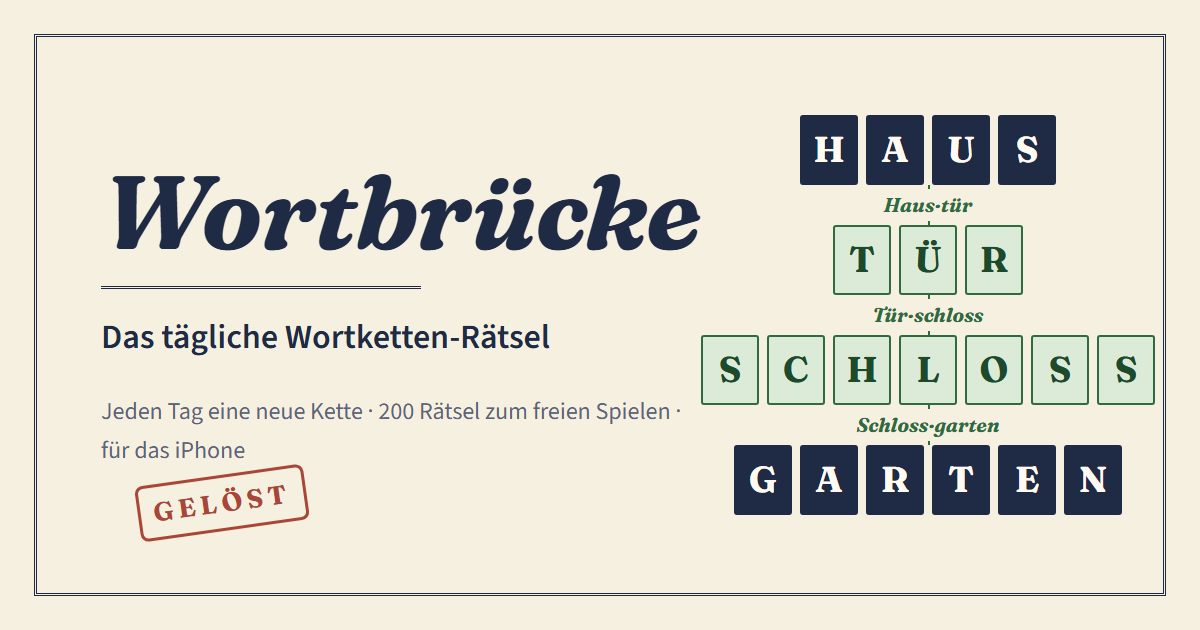
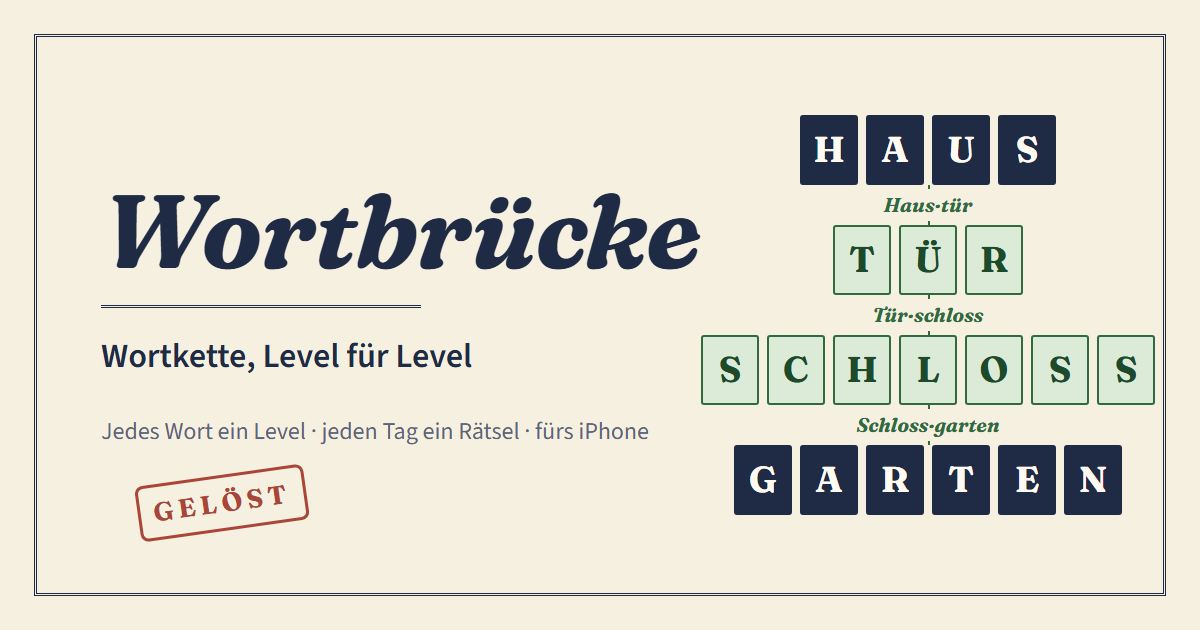
Webseite auf Build 118: Spielen/Kette als Hauptspiel, neue Bilder, Datenschutz Stand 4. November 2026, Support ohne Freies Spiel

Changed region(s): [[0.0925, 0.2714, 0.5858, 0.4524], [0.0617, 0.4524, 0.4625, 0.6032], [0.0617, 0.6333, 0.555, 0.7238]]

diff --git a/index.html b/index.html
@@ -8,8 +8,8 @@
 <meta name="color-scheme" content="light dark">
 <meta name="theme-color" content="#F6F0E1" media="(prefers-color-scheme: light)">
 <meta name="theme-color" content="#191B22" media="(prefers-color-scheme: dark)">
-<title>Wortbrücke – Das tägliche Wortketten-Rätsel für das iPhone</title>
-<meta name="description" content="Jeden Tag eine neue Brücke aus deutschen Wörtern, dazu 200 Rätsel zum freien Spielen. Ruhig, ohne Anmeldung, auch offline. Kostenlos für das iPhone.">
+<title>Wortbrücke – Das Wortketten-Spiel für das iPhone</title>
+<meta name="description" content="Baue deine Kette aus deutschen Wörtern: Jedes Wort ist ein Level. Dazu jeden Tag ein Tagesrätsel. Ruhig, ohne Anmeldung, auch offline. Kostenlos für das iPhone.">
 <link rel="canonical" href="https://wortbruecke.com/">
 
 <!-- Open Graph (Vorschau beim Teilen in Messengern und sozialen Netzen) -->
@@ -17,8 +17,8 @@
 <meta property="og:site_name" content="Wortbrücke">
 <meta property="og:locale" content="de_DE">
 <meta property="og:url" content="https://wortbruecke.com/">
-<meta property="og:title" content="Wortbrücke – Das tägliche Wortketten-Rätsel">
-<meta property="og:description" content="Finde die Wörter, die zwei Nachbarn zu echten zusammengesetzten Wörtern verbinden. Jeden Tag ein neues Rätsel, ohne Anmeldung.">
+<meta property="og:title" content="Wortbrücke – Das Wortketten-Spiel">
+<meta property="og:description" content="Baue deine Kette Wort für Wort: Jedes Wort ist ein Level, falsche Versuche kosten nichts. Dazu jeden Tag ein Tagesrätsel, für alle gleich.">
 <meta property="og:image" content="https://wortbruecke.com/bilder/og-bild.png">
 <meta property="og:image:width" content="1200">
 <meta property="og:image:height" content="630">
@@ -55,9 +55,9 @@
 <!-- ============ HERO ============ -->
 <section class="hero" aria-labelledby="hero-titel">
   <div class="hero-text">
-    <p class="dachzeile">Das tägliche Wortketten-Rätsel</p>
+    <p class="dachzeile">Das Wortketten-Spiel</p>
     <h1 id="hero-titel">Wortbrücke</h1>
-    <p class="lead">Jeden Tag eine neue Brücke aus deutschen Wörtern. Finde die Wörter dazwischen – in fünf ruhigen Minuten, zum Kaffee oder vor dem Schlafen.</p>
+    <p class="lead">Baue deine Kette aus deutschen Wörtern, Level für Level. Falsche Versuche kosten nichts. Dazu jeden Tag ein Tagesrätsel, für alle gleich.</p>
 
     <div class="laden">
       <a class="appstore bald" aria-disabled="true" data-appstore>
@@ -70,7 +70,7 @@
 
   <div class="hero-bild">
     <figure class="telefon" data-bild>
-      <img src="/screenshots/01-start.png" width="660" height="1434" alt="Startbildschirm von Wortbrücke: oben HAUS, unten GARTEN, dazwischen leere Kästchen, darunter die Serie von 15 Tagen und der Knopf „Tagesrätsel spielen“." fetchpriority="high">
+      <img src="/screenshots/01-start.png" width="660" height="1434" alt="Startbildschirm von Wortbrücke: oben HAUS, unten GARTEN, dazwischen leere Kästchen, darunter die Serie von 15 Tagen, der Stand Deine Kette: Level 24 und der Knopf Spielen." fetchpriority="high">
       <span class="bild-ersatz" aria-hidden="true">Bild folgt</span>
     </figure>
     <span class="stempel" aria-hidden="true">Gelöst</span>
@@ -81,20 +81,20 @@
 <section class="abschnitt" id="so-gehts" aria-labelledby="so-titel">
   <div class="abschnitt-kopf">
     <p class="dachzeile">So funktioniert’s</p>
-    <h2 id="so-titel">Eine Brücke aus Wörtern</h2>
-    <p>Oben steht das Startwort, unten das Zielwort. Jedes Wort dazwischen bildet mit seinem oberen <em>und</em> seinem unteren Nachbarn ein echtes zusammengesetztes Wort.</p>
+    <h2 id="so-titel">Eine Kette aus Wörtern</h2>
+    <p>Das letzte Wort steht da, gesucht ist das nächste. Beide zusammen ergeben ein echtes zusammengesetztes Wort. Jedes gefundene Wort ist ein Level, und deine Kette wächst immer weiter.</p>
   </div>
 
   <ol class="schritte">
     <li><span class="nr" aria-hidden="true">1</span><h3>Lücke ansehen</h3><p>Die Kästchen zeigen, wie lang das Wort ist. Der erste Buchstabe ist geschenkt.</p></li>
-    <li><span class="nr" aria-hidden="true">2</span><h3>Wort eintippen</h3><p>Auf der Spieltastatur mit Ä, Ö, Ü und ß – dann „Prüfen“. Du hast fünf Fehlversuche.</p></li>
-    <li><span class="nr" aria-hidden="true">3</span><h3>Brücke fertig bauen</h3><p>Hängst du fest, deckt ein Tipp einen Buchstaben auf. Drei Tipps hast du pro Rätsel.</p></li>
+    <li><span class="nr" aria-hidden="true">2</span><h3>Wort eintippen</h3><p>Auf der Spieltastatur mit Ä, Ö, Ü und ß – dann „Prüfen“. Falsche Versuche kosten nichts.</p></li>
+    <li><span class="nr" aria-hidden="true">3</span><h3>Level für Level weiter</h3><p>Hängst du fest, deckt ein Tipp einen Buchstaben auf, oder du tauschst das Wort. Alle 20 Level gibt es am Rastplatz Nachschub.</p></li>
   </ol>
 
   <div class="probe" id="probe" aria-labelledby="probe-titel">
     <div class="probe-kopf">
       <h3 id="probe-titel">Probier es aus</h3>
-      <p class="probe-sub">Ein kleines Rätsel mit zwei Lücken</p>
+      <p class="probe-sub">Ein kleines Tagesrätsel: Hier passt jedes Wort zu beiden Nachbarn</p>
     </div>
 
     <form class="kette" id="kette" novalidate autocomplete="off">
@@ -136,7 +136,7 @@
 
     <details class="aufloesung">
       <summary>Lösung anzeigen</summary>
-      <p><strong>HAUS – TÜR – SCHLOSS – GARTEN:</strong> Haus<span class="fuge">·</span>tür, Tür<span class="fuge">·</span>schloss, Schloss<span class="fuge">·</span>garten. In der App ist jede Brücke länger, und am Sonntag wartet die schwere Sonntagsbrücke.</p>
+      <p><strong>HAUS – TÜR – SCHLOSS – GARTEN:</strong> Haus<span class="fuge">·</span>tür, Tür<span class="fuge">·</span>schloss, Schloss<span class="fuge">·</span>garten. In der App hat das Tagesrätsel mehr Lücken, und am Sonntag wartet die schwere Sonntagsbrücke.</p>
     </details>
   </div>
 </section>
@@ -145,14 +145,14 @@
 <section class="abschnitt" id="funktionen" aria-labelledby="funk-titel">
   <div class="abschnitt-kopf">
     <p class="dachzeile">Funktionen</p>
-    <h2 id="funk-titel">Ein Rätsel am Tag – und so viel mehr, wie du magst</h2>
+    <h2 id="funk-titel">Spielen, so lange du magst – und jeden Tag ein Rätsel</h2>
   </div>
 
   <ul class="funktionen">
     <li class="funktion breit">
       <svg viewBox="0 0 24 24" aria-hidden="true" focusable="false"><rect x="3.5" y="5" width="17" height="15.5" rx="2"/><path d="M3.5 10h17M8 3v4M16 3v4"/></svg>
       <h3>Tagesrätsel mit Wochenrhythmus</h3>
-      <p>Jeden Tag ein neues Rätsel, für alle gleich. Die Woche beginnt leicht und steigert sich bis zur schweren Sonntagsbrücke.</p>
+      <p>Die tägliche Challenge: jeden Tag ein neues Rätsel, für alle gleich. Die Woche beginnt leicht und steigert sich bis zur schweren Sonntagsbrücke. Danach geht es mit „Weiterspielen“ in deiner Kette weiter, verpasste Tage holst du im Archiv nach.</p>
       <ol class="woche" aria-label="Schwierigkeit nach Wochentag">
         <li class="l1"><b>Mo</b><span>leicht</span></li>
         <li class="l1"><b>Di</b><span>leicht</span></li>
@@ -165,13 +165,13 @@
     </li>
     <li class="funktion">
       <svg viewBox="0 0 24 24" aria-hidden="true" focusable="false"><rect x="4" y="4" width="7" height="7" rx="1"/><rect x="13" y="4" width="7" height="7" rx="1"/><rect x="4" y="13" width="7" height="7" rx="1"/><rect x="13" y="13" width="7" height="7" rx="1"/></svg>
-      <h3>Freies Spiel: 200 Rätsel</h3>
-      <p>Wenn ein Rätsel am Tag nicht reicht: 200 eigene Rätsel in Leicht, Mittel, Schwer oder gemischt – zufällig und ohne Wiederholung. Dazu das Archiv zum Nachholen.</p>
+      <h3>Deine Kette</h3>
+      <p>Über „Spielen“ wächst deine Kette immer weiter, jedes Wort ist ein Level. Es helfen Tipp, Wort tauschen und Extra-Tipp per Video. Alle 20 Level wartet ein Rastplatz mit Nachschub.</p>
     </li>
     <li class="funktion">
       <svg viewBox="0 0 24 24" aria-hidden="true" focusable="false"><path d="M12 3l7 3v5.5c0 4.5-3 8-7 9.5-4-1.5-7-5-7-9.5V6z"/><path d="M9 12l2 2 4-4"/></svg>
-      <h3>Serie mit Serien-Schild</h3>
-      <p>Zähle die Tage, an denen du die Brücke geschafft hast. Ein verpasster Tag muss nicht das Ende sein: Ein Serien-Schild überbrückt ihn.</p>
+      <h3>Serie und Stempelheft</h3>
+      <p>Zähle die Tage, an denen du das Tagesrätsel geschafft hast. Ein Serien-Schild überbrückt einen verpassten Tag. Für deine Kette sammelst du 10 Stempel.</p>
     </li>
     <li class="funktion">
       <svg viewBox="0 0 24 24" aria-hidden="true" focusable="false"><path d="M6 16V11a6 6 0 0 1 12 0v5l1.5 2h-15z"/><path d="M10 20.5a2 2 0 0 0 4 0"/></svg>
@@ -180,8 +180,8 @@
     </li>
     <li class="funktion">
       <svg viewBox="0 0 24 24" aria-hidden="true" focusable="false"><path d="M12 15V3M7.5 7.5L12 3l4.5 4.5M5 12v7a2 2 0 0 0 2 2h10a2 2 0 0 0 2-2v-7"/></svg>
-      <h3>Ergebnis als Bild teilen</h3>
-      <p>Eine kleine Karte im Papier-Stil für die Familiengruppe oder den Büro-Chat – sie zeigt deinen Weg, aber nie die Lösung.</p>
+      <h3>Ergebnis und Fortschritt teilen</h3>
+      <p>Eine kleine Karte im Papier-Stil für die Familiengruppe oder den Büro-Chat – sie zeigt deinen Weg, aber nie die Lösung. Am Rastplatz teilst du dein Level.</p>
     </li>
     <li class="funktion">
       <svg viewBox="0 0 24 24" aria-hidden="true" focusable="false"><circle cx="12" cy="12" r="8.5"/><path d="M6 6l12 12"/></svg>
@@ -192,8 +192,8 @@
 
   <div class="vertrauen">
     <p><strong>Ohne Anmeldung.</strong> Spielstand, Serie und Statistik bleiben auf deinem iPhone.</p>
-    <p><strong>Faire Werbung.</strong> Keine Banner, nie während eines Rätsels, in den ersten Tagen gar keine.</p>
-    <p><strong>Auch offline.</strong> Die Rätsel stecken in der App. Hell oder dunkel, wie dein iPhone.</p>
+    <p><strong>Faire Werbung.</strong> Keine Banner, nie mitten in einem Wort oder Rätsel, in den ersten Tagen gar keine.</p>
+    <p><strong>Auch offline.</strong> Kette und Rätsel stecken in der App. Hell oder dunkel, wie dein iPhone.</p>
   </div>
 </section>
 
@@ -205,17 +205,17 @@
   </div>
   <div class="galerie">
     <figure class="telefon klein" data-bild>
-      <img src="/screenshots/01-start.png" width="660" height="1434" loading="lazy" alt="Startbildschirm mit dem heutigen Rätsel, der Serie und den Knöpfen Freies Spiel, Archiv und Statistik.">
+      <img src="/screenshots/01-start.png" width="660" height="1434" loading="lazy" alt="Startbildschirm mit der Serie, dem Stand der Kette und den Knöpfen Spielen, Tagesrätsel, Archiv und Statistik.">
       <span class="bild-ersatz" aria-hidden="true">Bild folgt</span>
-      <figcaption>Jeden Tag ein neues Rätsel</figcaption>
+      <figcaption>Deine Kette und das Tagesrätsel</figcaption>
     </figure>
     <figure class="telefon klein" data-bild>
-      <img src="/screenshots/02-spiel.png" width="660" height="1434" loading="lazy" alt="Spielbildschirm: Die Kette OBST, BAUM, eine Lücke mit STA, eine Lücke mit G und das Ziel HAUS; unten Tipp, Prüfen und die Spieltastatur mit Umlauten.">
+      <img src="/screenshots/02-spiel.png" width="660" height="1434" loading="lazy" alt="Tagesrätsel im Spiel: KIND, SPIEL, eine Lücke mit FEL, zwei weitere Lücken und das Ziel LAUS; unten Tipp, Prüfen und die Spieltastatur mit Umlauten.">
       <span class="bild-ersatz" aria-hidden="true">Bild folgt</span>
       <figcaption>Wort für Wort zum Ziel</figcaption>
     </figure>
     <figure class="telefon klein" data-bild>
-      <img src="/screenshots/03-ergebnis.png" width="660" height="1434" loading="lazy" alt="Ergebnis mit dem Stempel „Gelöst“, der Übersicht der gefundenen Wörter und einer Teilen-Karte ohne Lösung.">
+      <img src="/screenshots/03-ergebnis.png" width="660" height="1434" loading="lazy" alt="Ergebnis des Tagesrätsels mit dem Stempel „Gelöst“, der Übersicht der gefundenen Wörter, einer Teilen-Karte ohne Lösung und dem Knopf Weiterspielen.">
       <span class="bild-ersatz" aria-hidden="true">Bild folgt</span>
       <figcaption>Teilen, ohne zu verraten</figcaption>
     </figure>
@@ -235,7 +235,7 @@
     </details>
     <details>
       <summary>Brauche ich ein Konto oder Internet?</summary>
-      <p>Nein. Es gibt keine Anmeldung, und die Rätsel stecken in der App. Spielstand, Serie und Statistik bleiben auf deinem iPhone.</p>
+      <p>Nein. Es gibt keine Anmeldung, und Kette und Rätsel stecken in der App. Spielstand, Serie und Statistik bleiben auf deinem iPhone.</p>
     </details>
     <details>
       <summary>Wann gibt es ein neues Tagesrätsel?</summary>
@@ -247,11 +247,11 @@
     </details>
     <details>
       <summary>Wie viel Werbung gibt es?</summary>
-      <p>Wenig: keine Banner und nie Werbung während eines Rätsels. In den ersten Tagen gibt es gar keine. Danach höchstens einmal am Tag nach dem Tagesrätsel eine Vollbild-Werbung, im Archiv und im Freien Spiel höchstens nach jedem dritten gelösten Rätsel. Videos für einen Extra-Tipp schaust du nur, wenn du möchtest.</p>
+      <p>Wenig: keine Banner und nie Werbung mitten in einem Wort oder Rätsel. In den ersten Tagen gibt es gar keine. Danach höchstens einmal am Tag nach dem Tagesrätsel eine Vollbild-Werbung, im Archiv höchstens nach jedem dritten gelösten Rätsel und in deiner Kette nur am Rastplatz, also höchstens alle 20 Level. Videos für einen Extra-Tipp schaust du nur, wenn du möchtest.</p>
     </details>
     <details>
       <summary>Ein Wort sollte zählen, wird aber nicht angenommen?</summary>
-      <p>Tippe im Spiel auf „Wort melden“ oder schreib an <a href="mailto:kontakt@wortbruecke.com">kontakt@wortbruecke.com</a>. Wir prüfen jeden Vorschlag.</p>
+      <p>Tippe direkt nach dem abgelehnten Wort auf den Melde-Knopf oder schreib an <a href="mailto:kontakt@wortbruecke.com">kontakt@wortbruecke.com</a>. Wir prüfen jeden Vorschlag.</p>
     </details>
     <details>
       <summary>Gibt es Wortbrücke für Android oder das iPad?</summary>
@@ -262,7 +262,7 @@
 
 <!-- ============ ABSCHLUSS ============ -->
 <section class="schluss" aria-labelledby="schluss-titel">
-  <h2 id="schluss-titel">Die heutige Brücke wartet.</h2>
+  <h2 id="schluss-titel">Deine Kette wartet.</h2>
   <a class="appstore hell bald" aria-disabled="true" data-appstore>
     <svg viewBox="0 0 24 24" aria-hidden="true" focusable="false"><rect x="6" y="2" width="12" height="20" rx="2.5" fill="none" stroke="currentColor" stroke-width="1.8"/><path d="M10.5 18.5h3" stroke="currentColor" stroke-width="1.8" stroke-linecap="round"/></svg>
     <span class="appstore-text"><small data-appstore-klein>Bald im</small><strong data-appstore-gross>App Store</strong></span>

diff --git a/datenschutz.html b/datenschutz.html
@@ -38,7 +38,7 @@
   <a class="zurueck" href="/">&larr; Zur Startseite</a>
 
 <h1>Datenschutzerklärung</h1>
-<p>Stand: 3. November 2026</p>
+<p>Stand: 4. November 2026</p>
 
 <p>Diese Datenschutzerklärung gilt für die iPhone-App „Wortbrücke“ (im Folgenden „App“) und für diese Webseite. Sie erklärt, welche personenbezogenen Daten verarbeitet werden, wozu und welche Rechte Sie haben.</p>
 
@@ -52,7 +52,7 @@
   <li><a href="#werbung">Werbung (Google AdMob)</a></li>
   <li><a href="#kauf">Kauf „Werbefrei“</a></li>
   <li><a href="#erinnerung">Tägliche Erinnerung</a></li>
-  <li><a href="#teilen">Ergebnis teilen</a></li>
+  <li><a href="#teilen">Ergebnis und Fortschritt teilen</a></li>
   <li><a href="#email">„Wort melden“ und E-Mail</a></li>
   <li><a href="#bewertung">Bewertungsabfrage</a></li>
   <li><a href="#webseite">Diese Webseite</a></li>
@@ -86,8 +86,8 @@
 <h2 id="geraet">3. Speicherung auf Ihrem Gerät</h2>
 <p>Die App speichert auf Ihrem iPhone, und nur dort:</p>
 <ul>
-  <li>Spielstand laufender Rätsel (Tagesrätsel, Archiv und Freies Spiel), gelöste und verpasste Rätsel, Serie, Serien-Schilde, Statistik, Kalender und Urkunden,</li>
-  <li>welche Rätsel im Freien Spiel Sie schon gespielt haben (damit sich keines vor Ende einer Runde wiederholt),</li>
+  <li>Spielstand laufender Rätsel (Tagesrätsel und Archiv) und Ihrer Kette (aktuelles Level), gelöste und verpasste Rätsel, Serie, Serien-Schilde, Statistik, Kalender und Urkunden,</li>
+  <li>welche Wörter Sie in Ihrer Kette gefunden und welche Stempel Sie gesammelt haben (für Stempelheft und Statistik und damit sich Wörter nicht zu schnell wiederholen),</li>
   <li>Ihre Einstellungen (z. B. Farbmodus, Papier-Farbe, Vibration, Uhrzeit der Erinnerung),</li>
   <li>ob Sie „Werbefrei“ gekauft haben (zusätzlich fragt die App den Kaufstatus bei Apple ab, siehe Abschnitt 6),</li>
   <li>Zähler für die Werbe-Häufigkeit und den ersten Nutzungstag (damit z. B. in den ersten Tagen keine Werbung erscheint und danach höchstens eine Vollbild-Werbung pro Tag nach dem Tagesrätsel),</li>
@@ -106,7 +106,7 @@
 
 <h3>5.1 Anbieter und Platzierung</h3>
 <p>Die App finanziert sich über Werbung. Dafür nutzen wir <strong>Google AdMob</strong> und die Google-Einwilligungsplattform („User Messaging Platform“, UMP). Anbieter für Nutzer in Europa ist die <strong>Google Ireland Limited, Gordon House, Barrow Street, Dublin 4, Irland</strong> („Google“).</p>
-<p>Werbung erscheint nur an bestimmten Stellen: nie während eines Rätsels, nie beim Start und kein Banner. In den ersten Tagen nach dem ersten Start erscheint keine Werbung. Danach kann beim Verlassen des Ergebnisbildschirms nach dem Tagesrätsel höchstens einmal am Tag eine Vollbild-Werbung erscheinen, im Archiv und im Freien Spiel höchstens nach jedem dritten gelösten Rätsel. Werbevideos (für einen Extra-Tipp, ein zusätzliches Serien-Schild oder einen weiteren Versuch im Archiv) sehen Sie nur, wenn Sie das ausdrücklich auswählen.</p>
+<p>Werbung erscheint nur an bestimmten Stellen: nie während eines Rätsels, nie beim Start und kein Banner. In den ersten Tagen nach dem ersten Start erscheint keine Werbung. Danach kann beim Verlassen des Ergebnisbildschirms nach dem Tagesrätsel höchstens einmal am Tag eine Vollbild-Werbung erscheinen, im Archiv höchstens nach jedem dritten gelösten Rätsel und in Ihrer Kette nur am Rastplatz, höchstens alle 20 Level. Werbevideos (für einen Extra-Tipp, ein zusätzliches Serien-Schild oder einen weiteren Versuch im Archiv) sehen Sie nur, wenn Sie das ausdrücklich auswählen.</p>
 
 <h3>5.2 Welche Daten verarbeitet werden</h3>
 <p>Wenn das Werbemodul aktiv ist, kann das Google Mobile Ads SDK nach Angaben von Google insbesondere folgende Daten erheben und an Google übertragen:</p>
@@ -122,7 +122,7 @@
 <p><strong>Zwecke:</strong> Ausspielen von Werbung, Begrenzung der Häufigkeit, Messung der Werbewirkung, Abrechnung, Betrugs- und Missbrauchserkennung und – nur mit Ihrer Einwilligung – personalisierte Werbung.</p>
 
 <h3>5.3 Einwilligungsdialog (DSGVO)</h3>
-<p>Bevor Werbung geladen wird, zeigt die App den Einwilligungsdialog von Google (zertifiziert nach dem IAB Transparency &amp; Consent Framework). Er erscheint nicht beim allerersten Start, sondern nach dem ersten fertig gespielten Rätsel. Dort können Sie wählen, ob und zu welchen Zwecken Google und seine Werbepartner Informationen auf Ihrem Gerät speichern oder auslesen und Daten für personalisierte Werbung nutzen dürfen. Sie können ablehnen.</p>
+<p>Bevor Werbung geladen wird, zeigt die App den Einwilligungsdialog von Google (zertifiziert nach dem IAB Transparency &amp; Consent Framework). Er erscheint nicht beim allerersten Start, sondern beim ersten Anlass für Werbung: wenn Sie nach dem ersten fertig gespielten Rätsel den Ergebnisbildschirm verlassen (das Einstiegsrätsel zählt nicht), am ersten Rastplatz Ihrer Kette auf „Weiter“ tippen, ein Werbevideo wählen, in Ihrer Kette ohne Tipps und Tausch auf „Anderes Wort“ tippen oder die Datenschutz-Einstellungen öffnen. Ist er dabei nicht erschienen oder haben Sie die App vorher geschlossen, kann er bei einem späteren App-Start erscheinen. Dort können Sie wählen, ob und zu welchen Zwecken Google und seine Werbepartner Informationen auf Ihrem Gerät speichern oder auslesen und Daten für personalisierte Werbung nutzen dürfen. Sie können ablehnen.</p>
 <ul>
   <li><strong>Mit Einwilligung:</strong> personalisierte oder nicht personalisierte Werbung nach Ihrer Auswahl.</li>
   <li><strong>Wenn Sie ablehnen:</strong> Google kann eingeschränkte Werbung („Limited Ads“) ausspielen: ohne Personalisierung und ohne Speichern oder Auslesen von Kennungen auf Ihrem Gerät zu Werbezwecken; die IP-Adresse wird dabei weiterhin zur Auslieferung und Betrugserkennung verwendet.</li>
@@ -165,11 +165,12 @@
 <p>Abschalten: in der App unter „Einstellungen“ oder in iOS unter Einstellungen → Mitteilungen → Wortbrücke.</p>
 <p class="legal"><strong>Rechtsgrundlage:</strong> Ihre Einwilligung (Art. 6 Abs. 1 lit. a DSGVO, § 25 Abs. 1 TDDDG), jederzeit widerrufbar wie beschrieben.</p>
 
-<h2 id="teilen">8. Ergebnis teilen</h2>
+<h2 id="teilen">8. Ergebnis und Fortschritt teilen</h2>
 <p>Wenn Sie „Teilen“ antippen, erzeugt die App auf Ihrem iPhone ein Ergebnisbild und einen kurzen Text (Rätselnummer, Ergebnis als Kästchen, beim Tagesrätsel Ihre Serie – ohne Lösung und ohne Namen). Das Bild wird dafür kurz im Zwischenspeicher der App abgelegt. Dann öffnet sich das Teilen-Menü von iOS. An wen und über welche App Sie teilen, entscheiden Sie; für die weitere Verarbeitung ist der jeweilige Dienst (z. B. Ihr Messenger) verantwortlich. Wir erhalten dabei nichts.</p>
+<p>Wenn Sie am Rastplatz oder in der Statistik „Fortschritt teilen“ antippen, erzeugt die App nur einen kurzen Text (erreichtes Level und Anzahl Ihrer Stempel – ohne Lösung und ohne Namen), kein Bild. Auch dieser Text geht nur über das Teilen-Menü von iOS an die von Ihnen gewählte App; steht das Menü nicht zur Verfügung, kopiert die App den Text in die Zwischenablage. Wir erhalten dabei nichts.</p>
 
 <h2 id="email">9. „Wort melden“ und Kontakt per E-Mail</h2>
-<p>Wenn Sie nach einem abgelehnten Wort „Wort melden“ antippen, öffnet die App Ihre E-Mail-App mit einer vorausgefüllten Nachricht an uns: Rätselnummer, betroffene Lücke, Ihr eingegebenes Wort und die App-Version. Sie sehen die Nachricht vor dem Senden und entscheiden selbst, ob Sie sie abschicken. Die App selbst überträgt nichts.</p>
+<p>Wenn Sie nach einem abgelehnten Wort „Wort melden“ antippen, öffnet die App Ihre E-Mail-App mit einer vorausgefüllten Nachricht an uns: Rätselnummer, betroffene Lücke, Ihr eingegebenes Wort und die App-Version. In Ihrer Kette heißt der Knopf „Das Wort sollte zählen“; die Nachricht enthält dort Ihr Level, das letzte Wort der Kette, Ihr eingegebenes Wort, die App-Version und die Angabe „iPhone“. Sie sehen die Nachricht vor dem Senden und entscheiden selbst, ob Sie sie abschicken. Die App selbst überträgt nichts.</p>
 <p>Wenn Sie uns eine E-Mail schreiben (z. B. Fragen, Wortvorschläge, Fehlermeldungen, Meldung unpassender Werbung), verarbeiten wir Ihre E-Mail-Adresse und den Inhalt Ihrer Nachricht, um Ihre Anfrage zu beantworten und Wortvorschläge zu prüfen. Wir löschen die Nachricht, wenn die Anfrage erledigt ist und keine gesetzlichen Aufbewahrungspflichten entgegenstehen.</p>
 <p class="legal"><strong>Rechtsgrundlage:</strong> Art. 6 Abs. 1 lit. b DSGVO (wenn es um die App oder einen Kauf geht), sonst unser berechtigtes Interesse, Anfragen zu beantworten und die Rätsel zu verbessern (Art. 6 Abs. 1 lit. f DSGVO).</p>
 

diff --git a/support.html b/support.html
@@ -39,36 +39,59 @@
 
 <h1>Hilfe und Kontakt</h1>
 
-<p>Bei Wortbrücke baust du eine Brücke aus deutschen Wörtern: vom Startwort oben bis zum Zielwort unten. Jedes Wort bildet mit seinem oberen und seinem unteren Nachbarn ein zusammengesetztes Wort, zum Beispiel HAUS – TÜR – SCHLOSS (Haustür, Türschloss).</p>
+<p>Bei Wortbrücke baust du über „Spielen“ deine Kette aus deutschen Wörtern: Das letzte Wort steht da, gesucht ist das nächste. Beide zusammen ergeben ein zusammengesetztes Wort, zum Beispiel KELLER – RAUM – FAHRT (Kellerraum, Raumfahrt). Jedes gefundene Wort ist ein Level.</p>
+
+<p>Dazu gibt es jeden Tag ein Tagesrätsel, für alle gleich: Dort baust du eine Brücke vom Startwort zum Zielwort, und jedes Wort passt zu seinem oberen und seinem unteren Nachbarn.</p>
 
 <div class="card">
-  <h2 class="ohne-linie">Kontakt</h2>
+  <h2>Kontakt</h2>
   <p>Fragen, Fehler, Wortvorschläge oder unpassende Werbung? Schreib uns:</p>
   <p><strong>E-Mail:</strong> <a href="mailto:kontakt@wortbruecke.com">kontakt@wortbruecke.com</a></p>
-  <p class="small">Bitte nenne bei Fehlern kurz dein iPhone-Modell und, wenn möglich, die Rätselnummer. Die App-Version steht in der App unter „Einstellungen“.</p>
+  <p class="small">Bitte nenne bei Fehlern kurz dein iPhone-Modell und, wenn möglich, die Rätselnummer oder dein Level. Die App-Version steht in der App unter „Einstellungen“.</p>
 </div>
 
 <h2>Häufige Fragen</h2>
 
 <details>
+  <summary>Wie funktioniert „Spielen“?</summary>
+  <div>
+    <p>Über den Knopf „Spielen“ spielst du deine Kette. Es gibt nur diese eine Kette: Sie bleibt bestehen, und du machst immer dort weiter, wo du aufgehört hast. Dein Fortschritt ist dein aktuelles Level. Falsche Versuche kosten nichts, du kannst so oft probieren, wie du magst.</p>
+  </div>
+</details>
+
+<details>
+  <summary>Ich komme in der Kette nicht weiter. Was kann ich tun?</summary>
+  <div>
+    <p>Ein Tipp deckt einen Buchstaben auf. Mit „Anderes Wort“ tauschst du das gesuchte Wort gegen ein anderes, wo es eines gibt. Sind die Tipps aufgebraucht, kannst du freiwillig ein kurzes Video ansehen und bekommst einen Extra-Tipp (höchstens einen pro Level und fünf bis zum nächsten Rastplatz). Mit „Werbefrei“ gibt es den Extra-Tipp ohne Video.</p>
+  </div>
+</details>
+
+<details>
+  <summary>Was ist der Rastplatz?</summary>
+  <div>
+    <p>Alle 20 Level erreichst du einen Rastplatz. Dort bekommst du einen Tipp und einen Tausch dazu, solange dein Vorrat nicht voll ist (höchstens 5 Tipps und 2 Tausch). Außerdem kannst du deinen Fortschritt teilen.</p>
+  </div>
+</details>
+
+<details>
+  <summary>Was ist das Stempelheft?</summary>
+  <div>
+    <p>Im Stempelheft sammelst du 10 Stempel für deine Kette, zum Beispiel für Level 20 oder für lange Wörter. Du findest es auf dem Startbildschirm und in der Statistik.</p>
+  </div>
+</details>
+
+<details>
   <summary>Wann gibt es das neue Tagesrätsel?</summary>
   <div>
     <p>Jeden Tag um Mitternacht (deutsche Zeit) kommt ein neues Tagesrätsel, für alle gleich. Die Woche hat einen Rhythmus: Montag und Dienstag leicht, Mittwoch bis Freitag mittel, Samstag mittel oder schwer, Sonntag die schwere Sonntagsbrücke.</p>
-    <p>Ein Rätsel, das du vor Mitternacht begonnen hast, zählt für den Tag, an dem du es begonnen hast.</p>
+    <p>Ein Rätsel, das du vor Mitternacht begonnen hast, zählt für den Tag, an dem du es begonnen hast. Nach dem Tagesrätsel kannst du dein Ergebnis teilen oder mit „Weiterspielen“ in deiner Kette weitermachen.</p>
   </div>
 </details>
 
 <details>
-  <summary>Wie viele Fehler und Tipps habe ich?</summary>
+  <summary>Wie viele Fehler und Tipps habe ich im Tagesrätsel?</summary>
   <div>
-    <p>Du hast 5 Fehlversuche und 3 Tipps. Jeder Tipp deckt einen Buchstaben auf. Sind die Tipps aufgebraucht, kannst du freiwillig ein kurzes Video ansehen und bekommst einen Extra-Tipp (höchstens einer pro Rätsel). Mit „Werbefrei“ gibt es den Extra-Tipp ohne Video.</p>
-  </div>
-</details>
-
-<details>
-  <summary>Was ist das Freie Spiel?</summary>
-  <div>
-    <p>Im Freien Spiel warten 200 eigene Rätsel, unabhängig vom Tagesrätsel. Wähle Leicht, Mittel, Schwer oder Gemischt. Die Rätsel kommen in zufälliger Reihenfolge, und keines wiederholt sich, bis du alle der Stufe gespielt hast. Das Freie Spiel zählt nicht für Serie und Statistik.</p>
+    <p>Im Tagesrätsel und im Archiv hast du pro Rätsel 5 Fehlversuche und 3 Tipps. Jeder Tipp deckt einen Buchstaben auf. Sind die Tipps aufgebraucht, kannst du freiwillig ein kurzes Video ansehen und bekommst einen Extra-Tipp (höchstens einer pro Rätsel). Mit „Werbefrei“ gibt es den Extra-Tipp ohne Video.</p>
   </div>
 </details>
 
@@ -82,7 +105,7 @@
 <details>
   <summary>Wie funktioniert die Serie und das Serien-Schild?</summary>
   <div>
-    <p>Die Serie zählt, an wie vielen Tagen in Folge du das Tagesrätsel gelöst hast. Ein Serien-Schild überbrückt einen Tag, an dem du nicht gespielt hast. Du kannst höchstens 2 Schilde haben. Für je 7 gelöste Tagesrätsel bekommst du eines geschenkt, dazu einmal pro Woche eines für ein freiwilliges Video (mit „Werbefrei“ automatisch).</p>
+    <p>Die Serie zählt, an wie vielen Tagen in Folge du das Tagesrätsel gelöst hast. Deine Kette ändert die Serie nicht. Ein Serien-Schild überbrückt einen Tag, an dem du nicht gespielt hast. Du kannst höchstens 2 Schilde haben. Für je 7 gelöste Tagesrätsel bekommst du eines geschenkt, dazu einmal pro Woche eines für ein freiwilliges Video (mit „Werbefrei“ automatisch).</p>
     <p>Ein Tagesrätsel, das du nach 5 Fehlern nicht gelöst hast, beendet die Serie trotzdem; dafür gilt das Schild nicht.</p>
   </div>
 </details>
@@ -98,14 +121,14 @@
 <details>
   <summary>Ein Wort sollte meiner Meinung nach zählen.</summary>
   <div>
-    <p>Tippe nach dem abgelehnten Wort auf „Wort melden“. Dann öffnet sich deine E-Mail-App mit einer vorbereiteten Nachricht an uns. Du kannst sie vor dem Senden ändern. So können wir das Wort prüfen und die Rätsel verbessern. Der Fehlversuch zählt im laufenden Rätsel trotzdem.</p>
+    <p>Tippe nach dem abgelehnten Wort auf „Wort melden“, in deiner Kette auf „Das Wort sollte zählen“. Dann öffnet sich deine E-Mail-App mit einer vorbereiteten Nachricht an uns. Du kannst sie vor dem Senden ändern. So können wir das Wort prüfen und das Spiel verbessern. Im Tagesrätsel und im Archiv zählt der Fehlversuch trotzdem.</p>
   </div>
 </details>
 
 <details>
   <summary>Wann erscheint Werbung?</summary>
   <div>
-    <p>In den ersten Tagen gar nicht. Danach höchstens einmal am Tag eine Vollbild-Werbung nach dem Tagesrätsel, im Archiv und im Freien Spiel höchstens nach jedem dritten gelösten Rätsel. Nie während eines Rätsels und keine Banner. Videos für Extra-Tipp oder Serien-Schild siehst du nur, wenn du sie selbst auswählst.</p>
+    <p>In den ersten Tagen gar nicht. Danach höchstens einmal am Tag eine Vollbild-Werbung nach dem Tagesrätsel und im Archiv höchstens nach jedem dritten gelösten Rätsel. In deiner Kette kann Vollbild-Werbung nur beim „Weiter“ am Rastplatz erscheinen: frühestens 20 Level nach der letzten, mit mindestens 4 Minuten Abstand und höchstens sechsmal am Tag. Nie mitten in einem Wort oder Rätsel und keine Banner. Videos für Extra-Tipp oder Serien-Schild siehst du nur, wenn du sie selbst auswählst.</p>
   </div>
 </details>
 

diff --git a/impressum.html b/impressum.html
@@ -51,8 +51,8 @@
 
 <h2>Kontakt</h2>
 <p>
-  Telefon: <a href="tel:+4917680645544">+49 176 80645544</a><br>
-      E-Mail: <a href="mailto:kontakt@wortbruecke.com">kontakt@wortbruecke.com</a>
+  E-Mail: <a href="mailto:kontakt@wortbruecke.com">kontakt@wortbruecke.com</a><br>
+  Telefon: <a href="tel:+4917680645544">+49 176 80645544</a>
 </p>
 
 <h2>Verbraucherstreitbeilegung</h2>
